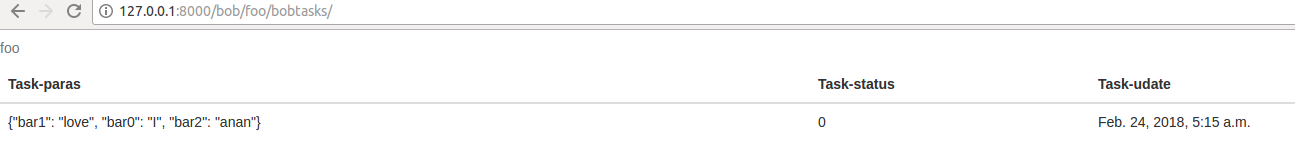
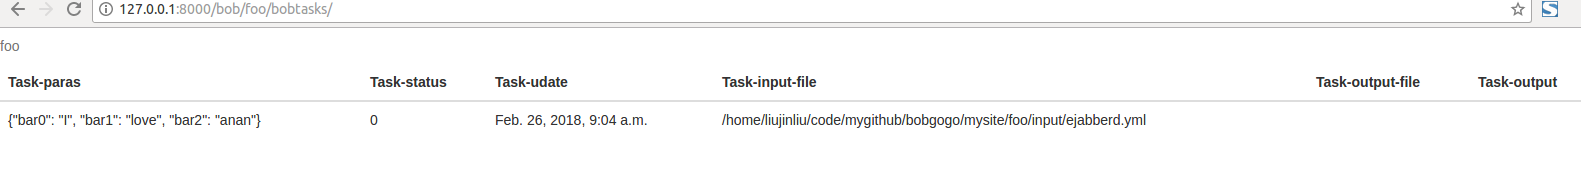
fix code bug, and use class based view

diff --git a/bob/templates/bob/bobtask.html b/bob/templates/bob/bobtask.html
@@ -28,7 +28,11 @@
          <td>{{ task.status }}</td>
          <td>{{ task.udate }}</td>
          <td>{{ task.input_file }}</td>
-         <td><a href="{% url 'bob:file_download' name 'output' task.output_file %}">{{ task.output_file }}</a></td>
+         {% if task.output_file %}
+            <td><a href="{% url 'bob:file_download' name 'output' task.output_file %}">{{ task.output_file }}</a></td>
+         {% else %}
+            <td>{{ task.output_file }}</td>
+         {% endif %}
          <td>{{ task.output }}</td>
       </tr>
    {% endfor %}

diff --git a/bob/views.py b/bob/views.py
@@ -8,86 +8,9 @@ from django.urls import reverse
 from django.utils import timezone
 from django.views.decorators.csrf import csrf_exempt
 from django.http import StreamingHttpResponse
+from django.views import View
 from .models import Tasks, BobTasks
 from .utils import handle_upload_file
-
-
-def index(request):
-    all_task = Tasks.objects.order_by('cdate')
-    if len(all_task) > 0:
-        t = all_task[0]
-        all_t = []
-        for t in all_task:
-            all_t.append(dict(current_name=t.name,
-                              current_fields=t.fields.split(",")))
-        context = {
-            'all_names': list(map(lambda x: x.name, all_task)),
-            'all_t': all_t
-        }
-        return render(request, 'bob/index.html', context)
-    else:
-        return HttpResponse("No Task found, first add a task via admin page")
-
-
-def gogo(request, task_name):
-    task = get_object_or_404(Tasks, name=task_name)
-    fields = task.fields.split(",") # NOQA
-    paras = {}
-    for field in fields:
-        paras[field] = request.POST[field]
-    input_file = ""
-    filekey = 'input-file'
-    if request.FILES.get(filekey) and str(request.FILES[filekey]):
-        input_file = handle_upload_file(request.FILES[filekey], task_name,
-                                        str(request.FILES[filekey]))
-    bob_task = BobTasks(name=task_name, cdate=timezone.now(),
-                        udate=timezone.now(), para=json.dumps(paras),
-                        input_file=input_file, output_file="", output="")
-    bob_task.save()
-    return HttpResponseRedirect(reverse('bob:bobtasks', args=(task_name,)))
-
-
-def bobtasks(request, task_name):
-    bobtask = get_list_or_404(BobTasks, name=task_name)
-    context = {'name': task_name, 'tasks': bobtask}
-    return render(request, 'bob/bobtask.html', context)
-
-
-def bobtasks_plaintext(request, task_name, status):
-    bobtask = get_list_or_404(BobTasks, name=task_name, status=status)
-    if not bobtask:
-        return HttpResponse("no task found")
-    ret = []
-    for t in bobtask:
-        para = json.loads(t.para)
-        input_file = t.input_file
-        ret.append(dict(id=t.id, para=para, input_file=input_file))
-    return HttpResponse(json.dumps(ret))
-
-
-@csrf_exempt
-def bobtasks_update(request, task_name, id):
-    if not request.POST.get("status"):
-        return HttpResponse("Error, need status")
-    bobtask = get_object_or_404(BobTasks, name=task_name, id=id)
-    if bobtask:
-        status = request.POST.get('status', 0)
-        bobtask.status = int(status)
-        bobtask.output = request.POST.get('output', '')
-        output_file_fullpath = request.POST.get('output_file', '')
-        filename = os.path.basename(output_file_fullpath)
-        target_path = "./%s/output/" % task_name
-        if not os.path.exists(target_path):
-            os.makedirs(target_path)
-        shutil.copy(output_file_fullpath, target_path + filename)
-        bobtask.output_file = filename
-        bobtask.save()
-        return HttpResponse(("set task:{task_name},id:{id} status to {status}"
-                             "output:{output}, output_file:{output_file}").format(
-                            task_name=task_name, id=id, status=status,
-                            output=bobtask.output, output_file=bobtask.output_file))
-    else:
-        return HttpResponse("unkonw id")
 
 
 def file_download(request, task_name, in_out, filename):
@@ -104,3 +27,90 @@ def file_download(request, task_name, in_out, filename):
     response['Content-Type'] = 'application/octet-stream'
     response['Content-Disposition'] = 'attachment;filename="{0}"'.format(filename)
     return response
+
+
+class IndexView(View):
+
+    def get(self, request):
+        all_task = Tasks.objects.order_by('cdate')
+        if len(all_task) > 0:
+            t = all_task[0]
+            all_t = []
+            for t in all_task:
+                all_t.append(dict(current_name=t.name,
+                                  current_fields=t.fields.split(",")))
+            context = {
+                'all_names': list(map(lambda x: x.name, all_task)),
+                'all_t': all_t
+            }
+            return render(request, 'bob/index.html', context)
+        else:
+            return HttpResponse("No Task found, first add a task via admin page")
+
+
+class GogoView(View):
+
+    def post(self, request, task_name):
+        task = get_object_or_404(Tasks, name=task_name)
+        fields = task.fields.split(",") # NOQA
+        paras = {}
+        for field in fields:
+            paras[field] = request.POST[field]
+        input_file = ""
+        filekey = 'input-file'
+        if request.FILES.get(filekey) and str(request.FILES[filekey]):
+            input_file = handle_upload_file(request.FILES[filekey], task_name,
+                                            str(request.FILES[filekey]))
+        bob_task = BobTasks(name=task_name, cdate=timezone.now(),
+                            udate=timezone.now(), para=json.dumps(paras),
+                            input_file=input_file, output_file="", output="")
+        bob_task.save()
+        return HttpResponseRedirect(reverse('bob:bobtasks', args=(task_name,)))
+
+
+class BobTaskView(View):
+
+    def get(self, request, task_name):
+        bobtask = get_list_or_404(BobTasks, name=task_name)
+        context = {'name': task_name, 'tasks': bobtask}
+        return render(request, 'bob/bobtask.html', context)
+
+
+class BobTaskPlainView(View):
+
+    def get(self, request, task_name, status):
+        bobtask = get_list_or_404(BobTasks, name=task_name, status=status)
+        if not bobtask:
+            return HttpResponse("no task found")
+        ret = []
+        for t in bobtask:
+            para = json.loads(t.para)
+            input_file = t.input_file
+            ret.append(dict(id=t.id, para=para, input_file=input_file))
+        return HttpResponse(json.dumps(ret))
+
+
+class BobTaskUpdateView(View):
+
+    def post(self, request, task_name, id):
+        if not request.POST.get("status"):
+            return HttpResponse("Error, need status")
+        bobtask = get_object_or_404(BobTasks, name=task_name, id=id)
+        if bobtask:
+            status = request.POST.get('status', 0)
+            bobtask.status = int(status)
+            bobtask.output = request.POST.get('output', '')
+            output_file_fullpath = request.POST.get('output_file', '')
+            filename = os.path.basename(output_file_fullpath)
+            target_path = "./%s/output/" % task_name
+            if not os.path.exists(target_path):
+                os.makedirs(target_path)
+            shutil.copy(output_file_fullpath, target_path + filename)
+            bobtask.output_file = filename
+            bobtask.save()
+            return HttpResponse(("set task:{task_name},id:{id} status to {status}"
+                                 "output:{output}, output_file:{output_file}").format(
+                                task_name=task_name, id=id, status=status,
+                                output=bobtask.output, output_file=bobtask.output_file))
+        else:
+            return HttpResponse("unkonw id")

diff --git a/bob/urls.py b/bob/urls.py
@@ -1,16 +1,16 @@
 from django.urls import path
-
+from django.views.decorators.csrf import csrf_exempt
 from . import views
 
 app_name = 'bob'
 urlpatterns = [
-    path('', views.index, name='index'),
-    path('<str:task_name>/gogo/', views.gogo, name='gogo'),
-    path('<str:task_name>/bobtasks/', views.bobtasks, name='bobtasks'),
+    path('', views.IndexView.as_view(), name='index'),
+    path('<str:task_name>/gogo/', views.GogoView.as_view(), name='gogo'),
+    path('<str:task_name>/bobtasks/', views.BobTaskView.as_view(), name='bobtasks'),
     path('<str:task_name>/bobtasks/plain/<int:status>/',
-         views.bobtasks_plaintext, name='bobtasks_plaintext'),
+         views.BobTaskPlainView.as_view(), name='bobtasks_plaintext'),
     path('<str:task_name>/bobtasks/<int:id>/',
-         views.bobtasks_update, name='bobtasks_update'),
+         csrf_exempt(views.BobTaskUpdateView.as_view()), name='bobtasks_update'),
     path('fileload/<str:task_name>/<str:in_out>/<str:filename>/',
          views.file_download, name='file_download'),
 ]

diff --git a/setup.py b/setup.py
@@ -9,7 +9,7 @@ os.chdir(os.path.normpath(os.path.join(os.path.abspath(__file__), os.pardir)))
 
 setup(
     name='django-bobgogo',
-    version='0.7',
+    version='0.8',
     packages=find_packages(),
     include_package_data=True,
     description='A simple Django app to record tasks for you.',
